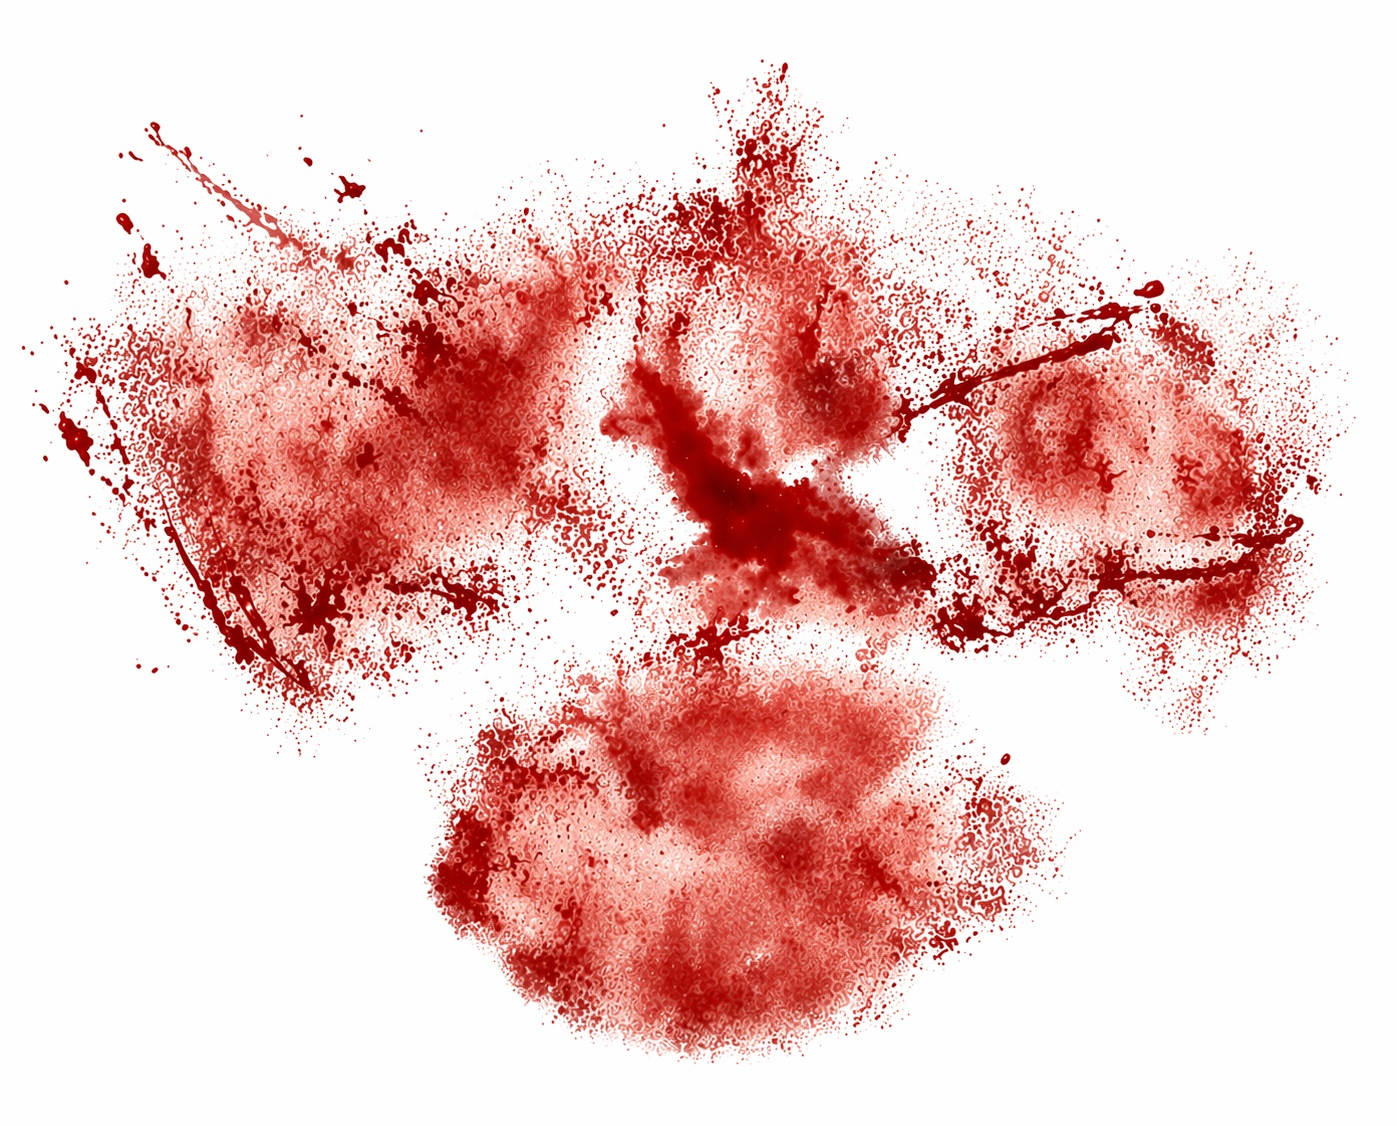
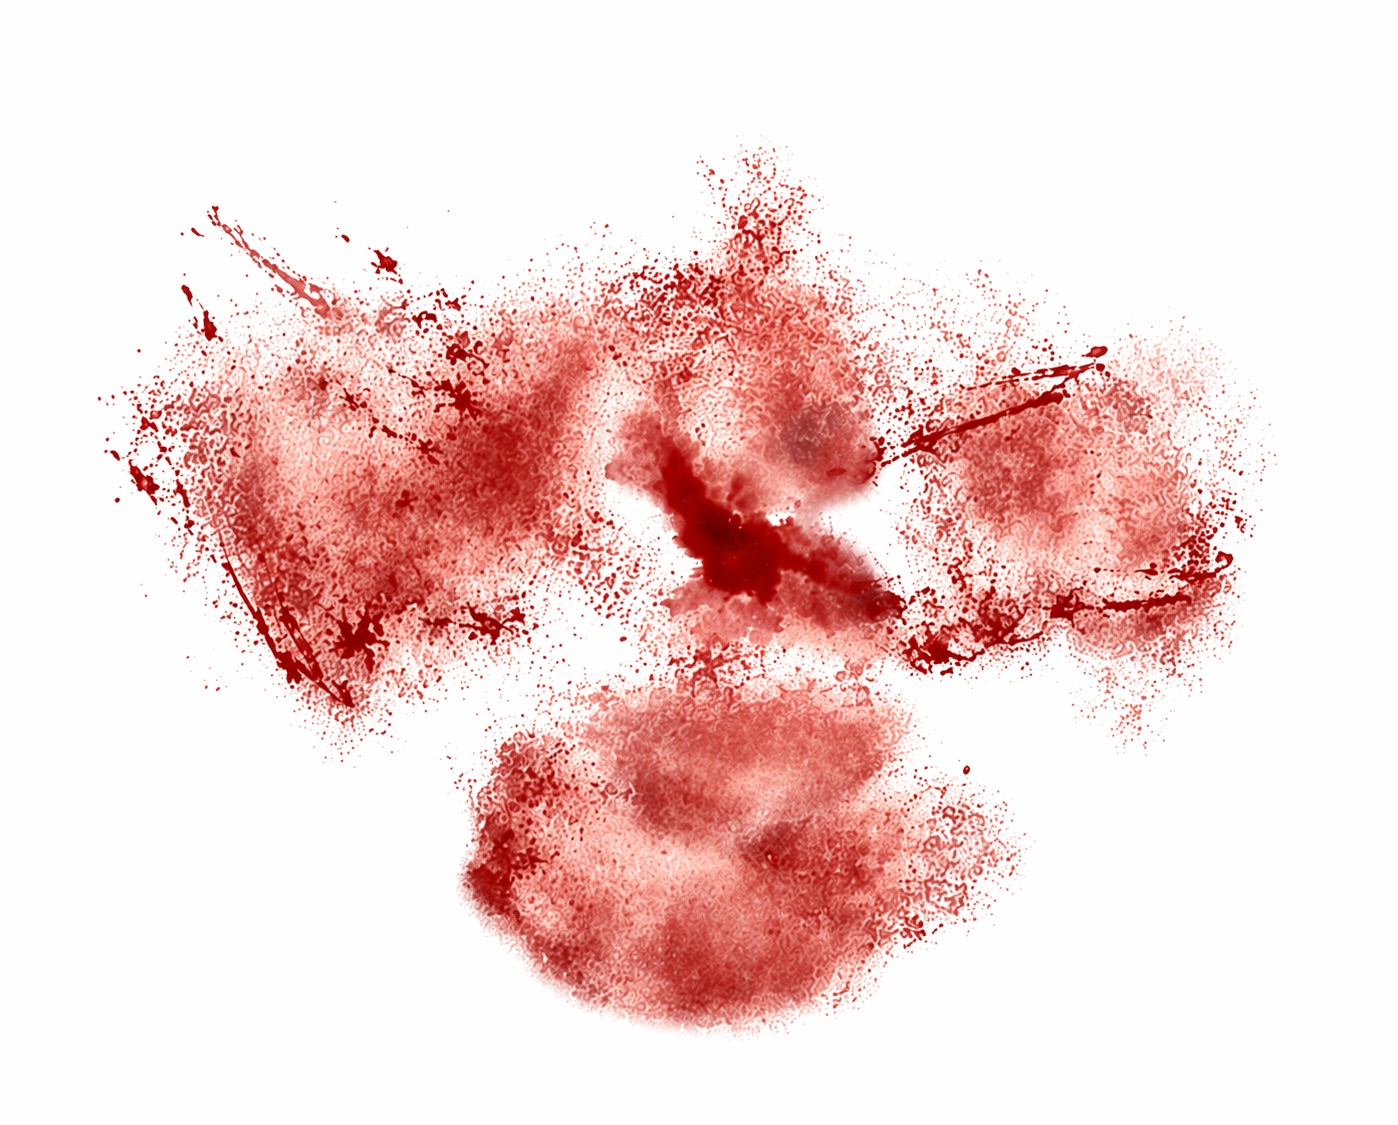
Swap face textures and update material settings
Replace face materials to use new Img_1/Img_3 assets and tweak their material properties across source, bundle and dist builds. Changes include updated texture paths, adjusted offsets, repeat values, opacity and blending, and enabling depth/write/wireframe/forceTransparent/wrap properties for face materials. Added new image assets (assets/Img_1.jpeg, assets/Img_3.jpeg, ChatGPT_Image..., Q0FFUTlPcF8_1.jpeg) and updated src copies under the 8th Wall Project folder; updated binaries (bundle.js and dist bundle). Bumped versionTag in index.html to v1.30 and removed several .DS_Store files.

diff --git a/8th Wall Project/dist/bundle.js b/8th Wall Project/dist/bundle.js
@@ -1,1 +1,1 @@
-(()=>{"use strict";window.ecs.registerComponent({name:"Picker"});const e=JSON.parse('{"objects":{"47699d9e-18a5-4f88-a4f9-b8be92e8f74a":{"components":{},"geometry":null,"id":"47699d9e-18a5-4f88-a4f9-b8be92e8f74a","light":{"type":"ambient"},"material":null,"name":"Ambient Light","position":[10,5,5],"rotation":[0,0,0,1],"scale":[1,1,1],"parentId":"88453035-dc0f-486d-868a-8ff7c2fda864","order":0.4038940050501252},"a608ddd9-9379-464d-966f-5d8d8674c83c":{"camera":{"type":"perspective","xr":{"desktop":"AR","xrCameraType":"face","headset":"disabled","phone":"AR","face":{"mirroredDisplay":true,"meshGeometryFace":true,"meshGeometryEyes":false,"meshGeometryIris":false,"meshGeometryMouth":false,"enableEars":false}}},"components":{},"geometry":null,"id":"a608ddd9-9379-464d-966f-5d8d8674c83c","material":null,"name":"Camera","position":[0,5,5],"rotation":[-1.8412919444518387e-17,0.9537169517857893,-0.30070579621354565,-5.839832572618051e-17],"scale":[0.9999998646558023,0.9999999931513284,0.9999998715044741],"parentId":"88453035-dc0f-486d-868a-8ff7c2fda864","order":1.0308214152219775},"ac1989e3-3b71-49e2-a05f-e682aeb18c36":{"components":{},"geometry":null,"id":"ac1989e3-3b71-49e2-a05f-e682aeb18c36","light":{"intensity":1,"type":"directional"},"material":null,"name":"Directional Light","position":[20,20,10],"rotation":[0,0,0,1],"scale":[1,1,1],"parentId":"88453035-dc0f-486d-868a-8ff7c2fda864","order":0.6644431107322474},"44723f32-7598-4505-8642-64071b450690":{"id":"44723f32-7598-4505-8642-64071b450690","position":[0,2,0],"rotation":[0,0,0,1],"scale":[1,1,1],"geometry":null,"material":null,"parentId":"88453035-dc0f-486d-868a-8ff7c2fda864","components":{},"face":{"id":1,"addAttachmentState":false},"name":"Face","order":3.262547308147731},"53886995-3b91-4a4d-8383-53793d5c31dd":{"id":"53886995-3b91-4a4d-8383-53793d5c31dd","position":[0,0,0],"rotation":[0,0,0,1],"scale":[1,1,1],"geometry":{"type":"face","id":1},"material":{"type":"basic","color":"#ffffff","textureSrc":{"type":"asset","asset":"assets/tex1.jpeg"},"depthTest":true,"depthWrite":true,"wireframe":false,"forceTransparent":true,"wrap":"clamp","offsetX":0.15,"offsetY":-0.05,"blending":"multiply","metalness":0,"roughness":0.5},"parentId":"44723f32-7598-4505-8642-64071b450690","components":{"34f94415-8474-4cd7-9fc1-f67c0e32a4b1":{"id":"34f94415-8474-4cd7-9fc1-f67c0e32a4b1","name":"face-mesh-anchor","parameters":{}}},"name":"F1","order":4.272423302860497,"shadow":{"castShadow":true,"receiveShadow":true},"hidden":true},"02f209c5-68f9-4521-96d8-3767638da001":{"id":"02f209c5-68f9-4521-96d8-3767638da001","position":[0,0,0],"rotation":[0,0,0,1],"scale":[1,1,1],"geometry":{"type":"face","id":1},"material":{"type":"basic","color":"#ffffff","textureSrc":{"type":"asset","asset":"assets/tex2.jpeg"},"depthTest":true,"depthWrite":true,"wireframe":false,"forceTransparent":true,"wrap":"clamp","offsetX":0,"offsetY":0.15,"blending":"multiply","metalness":0},"parentId":"44723f32-7598-4505-8642-64071b450690","components":{"34f94415-8474-4cd7-9fc1-f67c0e32a4b1":{"id":"34f94415-8474-4cd7-9fc1-f67c0e32a4b1","name":"face-mesh-anchor","parameters":{}}},"name":"F2","order":4.791144137487075,"shadow":{"castShadow":true,"receiveShadow":true},"hidden":true},"73298db5-f37a-479a-b905-553c44a3ae52":{"id":"73298db5-f37a-479a-b905-553c44a3ae52","position":[0,0,0],"rotation":[0,0,0,1],"scale":[1,1,1],"geometry":{"type":"face","id":1},"material":{"type":"basic","color":"#ffffff","textureSrc":{"type":"asset","asset":"assets/tex3.jpeg"},"depthTest":true,"depthWrite":true,"wireframe":false,"forceTransparent":true,"wrap":"clamp","offsetX":-0.1,"offsetY":0.1,"blending":"multiply","metalness":0,"repeatX":1.75,"repeatY":1.75},"parentId":"44723f32-7598-4505-8642-64071b450690","components":{"34f94415-8474-4cd7-9fc1-f67c0e32a4b1":{"id":"34f94415-8474-4cd7-9fc1-f67c0e32a4b1","name":"face-mesh-anchor","parameters":{}}},"name":"F3","order":5.839716236310053,"shadow":{"castShadow":true,"receiveShadow":true},"hidden":true}},"spaces":{"88453035-dc0f-486d-868a-8ff7c2fda864":{"id":"88453035-dc0f-486d-868a-8ff7c2fda864","name":"Default","activeCamera":"a608ddd9-9379-464d-966f-5d8d8674c83c","reflections":{"type":"url","url":"https://cdn.8thwall.com/web/assets/envmap/basic_env_map-m9hqpneh.jpg"}}},"entrySpaceId":"88453035-dc0f-486d-868a-8ff7c2fda864","runtimeVersion":{"type":"version","level":"major","major":2,"minor":0,"patch":0}}');delete e.history,delete e.historyVersion,window.ecs.application.init(e)})();
+(()=>{"use strict";window.ecs.registerComponent({name:"Picker"});const e=JSON.parse('{"objects":{"47699d9e-18a5-4f88-a4f9-b8be92e8f74a":{"components":{},"geometry":null,"id":"47699d9e-18a5-4f88-a4f9-b8be92e8f74a","light":{"type":"ambient"},"material":null,"name":"Ambient Light","position":[10,5,5],"rotation":[0,0,0,1],"scale":[1,1,1],"parentId":"88453035-dc0f-486d-868a-8ff7c2fda864","order":0.4038940050501252},"a608ddd9-9379-464d-966f-5d8d8674c83c":{"camera":{"type":"perspective","xr":{"desktop":"AR","xrCameraType":"face","headset":"disabled","phone":"AR","face":{"mirroredDisplay":true,"meshGeometryFace":true,"meshGeometryEyes":true,"meshGeometryIris":false,"meshGeometryMouth":false,"enableEars":false}}},"components":{},"geometry":null,"id":"a608ddd9-9379-464d-966f-5d8d8674c83c","material":null,"name":"Camera","position":[0,5,5],"rotation":[-1.8412919444518387e-17,0.9537169517857893,-0.30070579621354565,-5.839832572618051e-17],"scale":[0.9999998646558023,0.9999999931513284,0.9999998715044741],"parentId":"88453035-dc0f-486d-868a-8ff7c2fda864","order":1.0308214152219775},"ac1989e3-3b71-49e2-a05f-e682aeb18c36":{"components":{},"geometry":null,"id":"ac1989e3-3b71-49e2-a05f-e682aeb18c36","light":{"intensity":1,"type":"directional"},"material":null,"name":"Directional Light","position":[20,20,10],"rotation":[0,0,0,1],"scale":[1,1,1],"parentId":"88453035-dc0f-486d-868a-8ff7c2fda864","order":0.6644431107322474},"44723f32-7598-4505-8642-64071b450690":{"id":"44723f32-7598-4505-8642-64071b450690","position":[0,2,0],"rotation":[0,0,0,1],"scale":[1,1,1],"geometry":null,"material":null,"parentId":"88453035-dc0f-486d-868a-8ff7c2fda864","components":{},"face":{"id":1,"addAttachmentState":false},"name":"Face","order":3.262547308147731},"53886995-3b91-4a4d-8383-53793d5c31dd":{"id":"53886995-3b91-4a4d-8383-53793d5c31dd","position":[0,0,0],"rotation":[0,0,0,1],"scale":[1,1,1],"geometry":{"type":"face","id":1},"material":{"type":"basic","color":"#ffffff","textureSrc":{"type":"asset","asset":"assets/Img_1.jpeg"},"depthTest":true,"depthWrite":true,"wireframe":false,"forceTransparent":true,"wrap":"clamp","offsetX":0.075,"offsetY":-0.15,"blending":"multiply","metalness":0,"roughness":0.5,"opacity":0.8,"repeatX":1.25,"repeatY":1.25},"parentId":"44723f32-7598-4505-8642-64071b450690","components":{"34f94415-8474-4cd7-9fc1-f67c0e32a4b1":{"id":"34f94415-8474-4cd7-9fc1-f67c0e32a4b1","name":"face-mesh-anchor","parameters":{}}},"name":"F1","order":4.272423302860497,"shadow":{"castShadow":true,"receiveShadow":true},"hidden":true},"02f209c5-68f9-4521-96d8-3767638da001":{"id":"02f209c5-68f9-4521-96d8-3767638da001","position":[0,0,0],"rotation":[0,0,0,1],"scale":[1,1,1],"geometry":{"type":"face","id":1},"material":{"type":"basic","color":"#ffffff","textureSrc":{"type":"asset","asset":"assets/tex2.jpeg"},"depthTest":true,"depthWrite":true,"wireframe":false,"forceTransparent":true,"wrap":"clamp","offsetX":0,"offsetY":0.15,"blending":"multiply","metalness":0},"parentId":"44723f32-7598-4505-8642-64071b450690","components":{"34f94415-8474-4cd7-9fc1-f67c0e32a4b1":{"id":"34f94415-8474-4cd7-9fc1-f67c0e32a4b1","name":"face-mesh-anchor","parameters":{}}},"name":"F2","order":4.791144137487075,"shadow":{"castShadow":true,"receiveShadow":true},"hidden":true},"73298db5-f37a-479a-b905-553c44a3ae52":{"id":"73298db5-f37a-479a-b905-553c44a3ae52","position":[0,0,0],"rotation":[0,0,0,1],"scale":[1,1,1],"geometry":{"type":"face","id":1},"material":{"type":"basic","color":"#ffffff","textureSrc":{"type":"asset","asset":"assets/Img_3.jpeg"},"depthTest":true,"depthWrite":true,"wireframe":false,"forceTransparent":true,"wrap":"clamp","offsetX":-0.2,"offsetY":0,"blending":"multiply","metalness":0,"repeatX":2,"repeatY":2,"opacity":0.8},"parentId":"44723f32-7598-4505-8642-64071b450690","components":{"34f94415-8474-4cd7-9fc1-f67c0e32a4b1":{"id":"34f94415-8474-4cd7-9fc1-f67c0e32a4b1","name":"face-mesh-anchor","parameters":{}}},"name":"F3","order":5.839716236310053,"shadow":{"castShadow":true,"receiveShadow":true},"hidden":true}},"spaces":{"88453035-dc0f-486d-868a-8ff7c2fda864":{"id":"88453035-dc0f-486d-868a-8ff7c2fda864","name":"Default","activeCamera":"a608ddd9-9379-464d-966f-5d8d8674c83c","reflections":{"type":"url","url":"https://cdn.8thwall.com/web/assets/envmap/basic_env_map-m9hqpneh.jpg"}}},"entrySpaceId":"88453035-dc0f-486d-868a-8ff7c2fda864","runtimeVersion":{"type":"version","level":"major","major":2,"minor":0,"patch":0}}');delete e.history,delete e.historyVersion,window.ecs.application.init(e)})();

diff --git a/bundle.js b/bundle.js
@@ -1,1 +1,1 @@
-(()=>{"use strict";window.ecs.registerComponent({name:"Picker"});const e=JSON.parse('{"objects":{"47699d9e-18a5-4f88-a4f9-b8be92e8f74a":{"components":{},"geometry":null,"id":"47699d9e-18a5-4f88-a4f9-b8be92e8f74a","light":{"type":"ambient"},"material":null,"name":"Ambient Light","position":[10,5,5],"rotation":[0,0,0,1],"scale":[1,1,1],"parentId":"88453035-dc0f-486d-868a-8ff7c2fda864","order":0.4038940050501252},"a608ddd9-9379-464d-966f-5d8d8674c83c":{"camera":{"type":"perspective","xr":{"desktop":"AR","xrCameraType":"face","headset":"disabled","phone":"AR","face":{"mirroredDisplay":true,"meshGeometryFace":true,"meshGeometryEyes":false,"meshGeometryIris":false,"meshGeometryMouth":false,"enableEars":false}}},"components":{},"geometry":null,"id":"a608ddd9-9379-464d-966f-5d8d8674c83c","material":null,"name":"Camera","position":[0,5,5],"rotation":[-1.8412919444518387e-17,0.9537169517857893,-0.30070579621354565,-5.839832572618051e-17],"scale":[0.9999998646558023,0.9999999931513284,0.9999998715044741],"parentId":"88453035-dc0f-486d-868a-8ff7c2fda864","order":1.0308214152219775},"ac1989e3-3b71-49e2-a05f-e682aeb18c36":{"components":{},"geometry":null,"id":"ac1989e3-3b71-49e2-a05f-e682aeb18c36","light":{"intensity":1,"type":"directional"},"material":null,"name":"Directional Light","position":[20,20,10],"rotation":[0,0,0,1],"scale":[1,1,1],"parentId":"88453035-dc0f-486d-868a-8ff7c2fda864","order":0.6644431107322474},"44723f32-7598-4505-8642-64071b450690":{"id":"44723f32-7598-4505-8642-64071b450690","position":[0,2,0],"rotation":[0,0,0,1],"scale":[1,1,1],"geometry":null,"material":null,"parentId":"88453035-dc0f-486d-868a-8ff7c2fda864","components":{},"face":{"id":1,"addAttachmentState":false},"name":"Face","order":3.262547308147731},"53886995-3b91-4a4d-8383-53793d5c31dd":{"id":"53886995-3b91-4a4d-8383-53793d5c31dd","position":[0,0,0],"rotation":[0,0,0,1],"scale":[1,1,1],"geometry":{"type":"face","id":1},"material":{"type":"basic","color":"#ffffff","textureSrc":{"type":"asset","asset":"assets/tex1.jpeg"},"depthTest":true,"depthWrite":true,"wireframe":false,"forceTransparent":true,"wrap":"clamp","offsetX":0.15,"offsetY":-0.05,"blending":"multiply","metalness":0,"roughness":0.5},"parentId":"44723f32-7598-4505-8642-64071b450690","components":{"34f94415-8474-4cd7-9fc1-f67c0e32a4b1":{"id":"34f94415-8474-4cd7-9fc1-f67c0e32a4b1","name":"face-mesh-anchor","parameters":{}}},"name":"F1","order":4.272423302860497,"shadow":{"castShadow":true,"receiveShadow":true},"hidden":true},"02f209c5-68f9-4521-96d8-3767638da001":{"id":"02f209c5-68f9-4521-96d8-3767638da001","position":[0,0,0],"rotation":[0,0,0,1],"scale":[1,1,1],"geometry":{"type":"face","id":1},"material":{"type":"basic","color":"#ffffff","textureSrc":{"type":"asset","asset":"assets/tex2.jpeg"},"depthTest":true,"depthWrite":true,"wireframe":false,"forceTransparent":true,"wrap":"clamp","offsetX":0,"offsetY":0.15,"blending":"multiply","metalness":0},"parentId":"44723f32-7598-4505-8642-64071b450690","components":{"34f94415-8474-4cd7-9fc1-f67c0e32a4b1":{"id":"34f94415-8474-4cd7-9fc1-f67c0e32a4b1","name":"face-mesh-anchor","parameters":{}}},"name":"F2","order":4.791144137487075,"shadow":{"castShadow":true,"receiveShadow":true},"hidden":true},"73298db5-f37a-479a-b905-553c44a3ae52":{"id":"73298db5-f37a-479a-b905-553c44a3ae52","position":[0,0,0],"rotation":[0,0,0,1],"scale":[1,1,1],"geometry":{"type":"face","id":1},"material":{"type":"basic","color":"#ffffff","textureSrc":{"type":"asset","asset":"assets/tex3.jpeg"},"depthTest":true,"depthWrite":true,"wireframe":false,"forceTransparent":true,"wrap":"clamp","offsetX":-0.1,"offsetY":0.1,"blending":"multiply","metalness":0,"repeatX":1.75,"repeatY":1.75},"parentId":"44723f32-7598-4505-8642-64071b450690","components":{"34f94415-8474-4cd7-9fc1-f67c0e32a4b1":{"id":"34f94415-8474-4cd7-9fc1-f67c0e32a4b1","name":"face-mesh-anchor","parameters":{}}},"name":"F3","order":5.839716236310053,"shadow":{"castShadow":true,"receiveShadow":true},"hidden":true}},"spaces":{"88453035-dc0f-486d-868a-8ff7c2fda864":{"id":"88453035-dc0f-486d-868a-8ff7c2fda864","name":"Default","activeCamera":"a608ddd9-9379-464d-966f-5d8d8674c83c","reflections":{"type":"url","url":"https://cdn.8thwall.com/web/assets/envmap/basic_env_map-m9hqpneh.jpg"}}},"entrySpaceId":"88453035-dc0f-486d-868a-8ff7c2fda864","runtimeVersion":{"type":"version","level":"major","major":2,"minor":0,"patch":0}}');delete e.history,delete e.historyVersion,window.ecs.application.init(e)})();
+(()=>{"use strict";window.ecs.registerComponent({name:"Picker"});const e=JSON.parse('{"objects":{"47699d9e-18a5-4f88-a4f9-b8be92e8f74a":{"components":{},"geometry":null,"id":"47699d9e-18a5-4f88-a4f9-b8be92e8f74a","light":{"type":"ambient"},"material":null,"name":"Ambient Light","position":[10,5,5],"rotation":[0,0,0,1],"scale":[1,1,1],"parentId":"88453035-dc0f-486d-868a-8ff7c2fda864","order":0.4038940050501252},"a608ddd9-9379-464d-966f-5d8d8674c83c":{"camera":{"type":"perspective","xr":{"desktop":"AR","xrCameraType":"face","headset":"disabled","phone":"AR","face":{"mirroredDisplay":true,"meshGeometryFace":true,"meshGeometryEyes":true,"meshGeometryIris":false,"meshGeometryMouth":false,"enableEars":false}}},"components":{},"geometry":null,"id":"a608ddd9-9379-464d-966f-5d8d8674c83c","material":null,"name":"Camera","position":[0,5,5],"rotation":[-1.8412919444518387e-17,0.9537169517857893,-0.30070579621354565,-5.839832572618051e-17],"scale":[0.9999998646558023,0.9999999931513284,0.9999998715044741],"parentId":"88453035-dc0f-486d-868a-8ff7c2fda864","order":1.0308214152219775},"ac1989e3-3b71-49e2-a05f-e682aeb18c36":{"components":{},"geometry":null,"id":"ac1989e3-3b71-49e2-a05f-e682aeb18c36","light":{"intensity":1,"type":"directional"},"material":null,"name":"Directional Light","position":[20,20,10],"rotation":[0,0,0,1],"scale":[1,1,1],"parentId":"88453035-dc0f-486d-868a-8ff7c2fda864","order":0.6644431107322474},"44723f32-7598-4505-8642-64071b450690":{"id":"44723f32-7598-4505-8642-64071b450690","position":[0,2,0],"rotation":[0,0,0,1],"scale":[1,1,1],"geometry":null,"material":null,"parentId":"88453035-dc0f-486d-868a-8ff7c2fda864","components":{},"face":{"id":1,"addAttachmentState":false},"name":"Face","order":3.262547308147731},"53886995-3b91-4a4d-8383-53793d5c31dd":{"id":"53886995-3b91-4a4d-8383-53793d5c31dd","position":[0,0,0],"rotation":[0,0,0,1],"scale":[1,1,1],"geometry":{"type":"face","id":1},"material":{"type":"basic","color":"#ffffff","textureSrc":{"type":"asset","asset":"assets/Img_1.jpeg"},"depthTest":true,"depthWrite":true,"wireframe":false,"forceTransparent":true,"wrap":"clamp","offsetX":0.075,"offsetY":-0.15,"blending":"multiply","metalness":0,"roughness":0.5,"opacity":0.8,"repeatX":1.25,"repeatY":1.25},"parentId":"44723f32-7598-4505-8642-64071b450690","components":{"34f94415-8474-4cd7-9fc1-f67c0e32a4b1":{"id":"34f94415-8474-4cd7-9fc1-f67c0e32a4b1","name":"face-mesh-anchor","parameters":{}}},"name":"F1","order":4.272423302860497,"shadow":{"castShadow":true,"receiveShadow":true},"hidden":true},"02f209c5-68f9-4521-96d8-3767638da001":{"id":"02f209c5-68f9-4521-96d8-3767638da001","position":[0,0,0],"rotation":[0,0,0,1],"scale":[1,1,1],"geometry":{"type":"face","id":1},"material":{"type":"basic","color":"#ffffff","textureSrc":{"type":"asset","asset":"assets/tex2.jpeg"},"depthTest":true,"depthWrite":true,"wireframe":false,"forceTransparent":true,"wrap":"clamp","offsetX":0,"offsetY":0.15,"blending":"multiply","metalness":0},"parentId":"44723f32-7598-4505-8642-64071b450690","components":{"34f94415-8474-4cd7-9fc1-f67c0e32a4b1":{"id":"34f94415-8474-4cd7-9fc1-f67c0e32a4b1","name":"face-mesh-anchor","parameters":{}}},"name":"F2","order":4.791144137487075,"shadow":{"castShadow":true,"receiveShadow":true},"hidden":true},"73298db5-f37a-479a-b905-553c44a3ae52":{"id":"73298db5-f37a-479a-b905-553c44a3ae52","position":[0,0,0],"rotation":[0,0,0,1],"scale":[1,1,1],"geometry":{"type":"face","id":1},"material":{"type":"basic","color":"#ffffff","textureSrc":{"type":"asset","asset":"assets/Img_3.jpeg"},"depthTest":true,"depthWrite":true,"wireframe":false,"forceTransparent":true,"wrap":"clamp","offsetX":-0.2,"offsetY":0,"blending":"multiply","metalness":0,"repeatX":2,"repeatY":2,"opacity":0.8},"parentId":"44723f32-7598-4505-8642-64071b450690","components":{"34f94415-8474-4cd7-9fc1-f67c0e32a4b1":{"id":"34f94415-8474-4cd7-9fc1-f67c0e32a4b1","name":"face-mesh-anchor","parameters":{}}},"name":"F3","order":5.839716236310053,"shadow":{"castShadow":true,"receiveShadow":true},"hidden":true}},"spaces":{"88453035-dc0f-486d-868a-8ff7c2fda864":{"id":"88453035-dc0f-486d-868a-8ff7c2fda864","name":"Default","activeCamera":"a608ddd9-9379-464d-966f-5d8d8674c83c","reflections":{"type":"url","url":"https://cdn.8thwall.com/web/assets/envmap/basic_env_map-m9hqpneh.jpg"}}},"entrySpaceId":"88453035-dc0f-486d-868a-8ff7c2fda864","runtimeVersion":{"type":"version","level":"major","major":2,"minor":0,"patch":0}}');delete e.history,delete e.historyVersion,window.ecs.application.init(e)})();

diff --git a/index.html b/index.html
@@ -248,7 +248,7 @@
 
     <div id="loadingScreen">Loading...</div>
 
-    <div id="versionTag">v1.23</div>
+    <div id="versionTag">v1.30</div>
 
     <div id="flashOverlay"></div>
 
@@ -338,15 +338,22 @@
             const faceMeshes = [
                 {
                     label: 'Face 1',
-                    textureSrc: 'assets/tex1.jpeg',
+                    textureSrc: 'assets/Img_1.jpeg',
                     graphId: '53886995-3b91-4a4d-8383-53793d5c31dd',
                     name: 'F1',
-                    offsetX: 0.15,
-                    offsetY: -0.05,
+                    offsetX: 0.075,
+                    offsetY: -0.19,
                     metalness: 0,
-                    roughness: 0.5,
-                    repeatX: 1,
-                    repeatY: 1,
+                    roughness: 0,
+                    opacity: 1,
+                    repeatX: 1.25,
+                    repeatY: 1.25,
+                    blending: 'multiply',
+                    depthTest: true,
+                    depthWrite: true,
+                    wireframe: false,
+                    forceTransparent: true,
+                    wrap: 'clamp',
                 },
                 {
                     label: 'Face 2',
@@ -357,20 +364,34 @@
                     offsetY: 0.15,
                     metalness: 0,
                     roughness: 0,
+                    opacity: 1,
                     repeatX: 1,
                     repeatY: 1,
+                    blending: 'multiply',
+                    depthTest: true,
+                    depthWrite: true,
+                    wireframe: false,
+                    forceTransparent: true,
+                    wrap: 'clamp',
                 },
                 {
                     label: 'Face 3',
-                    textureSrc: 'assets/tex3.jpeg',
+                    textureSrc: 'assets/Img_3.jpeg',
                     graphId: '73298db5-f37a-479a-b905-553c44a3ae52',
                     name: 'F3',
-                    offsetX: -0.1,
-                    offsetY: 0.1,
+                    offsetX: -0.2,
+                    offsetY: 0,
                     metalness: 0,
                     roughness: 0,
-                    repeatX: 1.75,
-                    repeatY: 1.75,
+                    opacity: 1,
+                    repeatX: 2,
+                    repeatY: 2,
+                    blending: 'multiply',
+                    depthTest: true,
+                    depthWrite: true,
+                    wireframe: false,
+                    forceTransparent: true,
+                    wrap: 'clamp',
                 },
             ]
 
@@ -638,6 +659,13 @@
                         material.repeatY = faceMesh.repeatY
                         material.metalness = faceMesh.metalness
                         material.roughness = faceMesh.roughness
+                        material.opacity = faceMesh.opacity
+                        material.blending = faceMesh.blending
+                        material.depthTest = faceMesh.depthTest
+                        material.depthWrite = faceMesh.depthWrite
+                        material.wireframe = faceMesh.wireframe
+                        material.forceTransparent = faceMesh.forceTransparent
+                        material.wrap = faceMesh.wrap
                         return false
                     })
                 }
